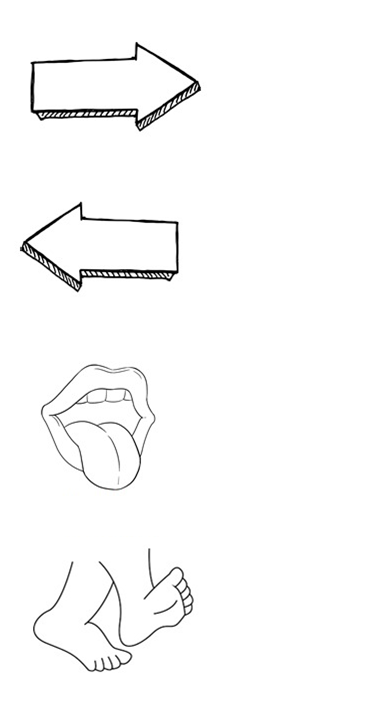
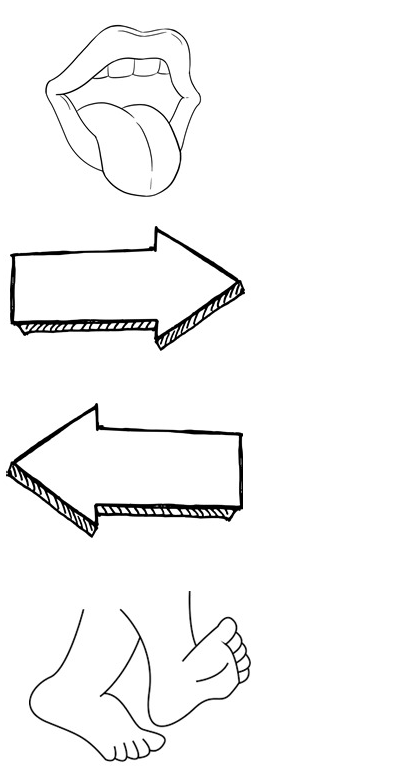
edit mouse config gui

diff --git a/src/bci4als/mouse.py b/src/bci4als/mouse.py
@@ -1,14 +1,13 @@
+import os
 import time
 from typing import Optional, List
-
 from PyQt5.QtCore import Qt
 from pynput.mouse import Button
 from pynput.mouse import Controller as Controller_mouse
 from pynput.keyboard import Key
 from pynput.keyboard import Controller as Controller_keyboard
-import os
-from PyQt5.QtWidgets import QWidget, QLabel, QPushButton, QComboBox
-from PyQt5.QtGui import QPixmap
+from PyQt5.QtWidgets import QWidget, QLabel, QComboBox
+from PyQt5.QtGui import QPixmap, QFont
 
 
 class MouseConfig(QWidget):
@@ -18,27 +17,29 @@ class MouseConfig(QWidget):
 
         # Window size and position
         self.left = 10
-        self.top = 50
-        self.width = 377
-        self.height = 720
+        self.top = 10
+        self.width = 415
+        self.height = 770
 
         # Widgets for the window
         self.label = QLabel(self)
         self.pixmap = QPixmap(os.path.join(os.path.dirname(__file__), 'configs', 'config.png'))
 
         # Combo-box
-        self.mouse_actions = ['Right Click', 'Left Click', 'Double Click', 'Ctrl + C', 'Ctrl + V', 'Left Press',
+        self.mouse_actions = ['Scroll Up', 'Right Click', 'Left Click', 'Scroll Down',
+                              'Double Click', 'Ctrl + C', 'Ctrl + V', 'Left Press',
                               'Left Release', 'None']
-        self.box_space = 170
-        self.box_init_pos = (230, 85)
+        self.box_x = 265
+        self.box_y = [85, 270, 450, 665]
         self.boxes = []
+        self.box_font = QFont('Calibri', 10)
 
         # Init window
         self.initUI()
 
     def initUI(self):
 
-        # Set title & position
+        # Set window properties
         self.setWindowTitle('Config')
         self.setGeometry(self.left, self.top, self.width, self.height)
         self.setWindowFlags(Qt.WindowStaysOnTopHint)
@@ -47,11 +48,12 @@ class MouseConfig(QWidget):
         self.label.setPixmap(self.pixmap)
 
         # Set combo boxes
-        for i in range(5):
+        for i in range(4):
             cb = QComboBox(self)
-            cb.addItems(['Right Click', 'Left Click', 'Double Click', 'Ctrl + C', 'Ctrl + V', 'Left Press',
-                        'Left Release', 'None'])
-            cb.move(self.box_init_pos[0], self.box_init_pos[1] + i * self.box_space)
+            cb.addItems(self.mouse_actions)
+            cb.setCurrentText(self.mouse_actions[i])
+            cb.move(self.box_x, self.box_y[i])
+            cb.setFont(self.box_font)
             self.boxes.append(cb)
 
         self.show()
